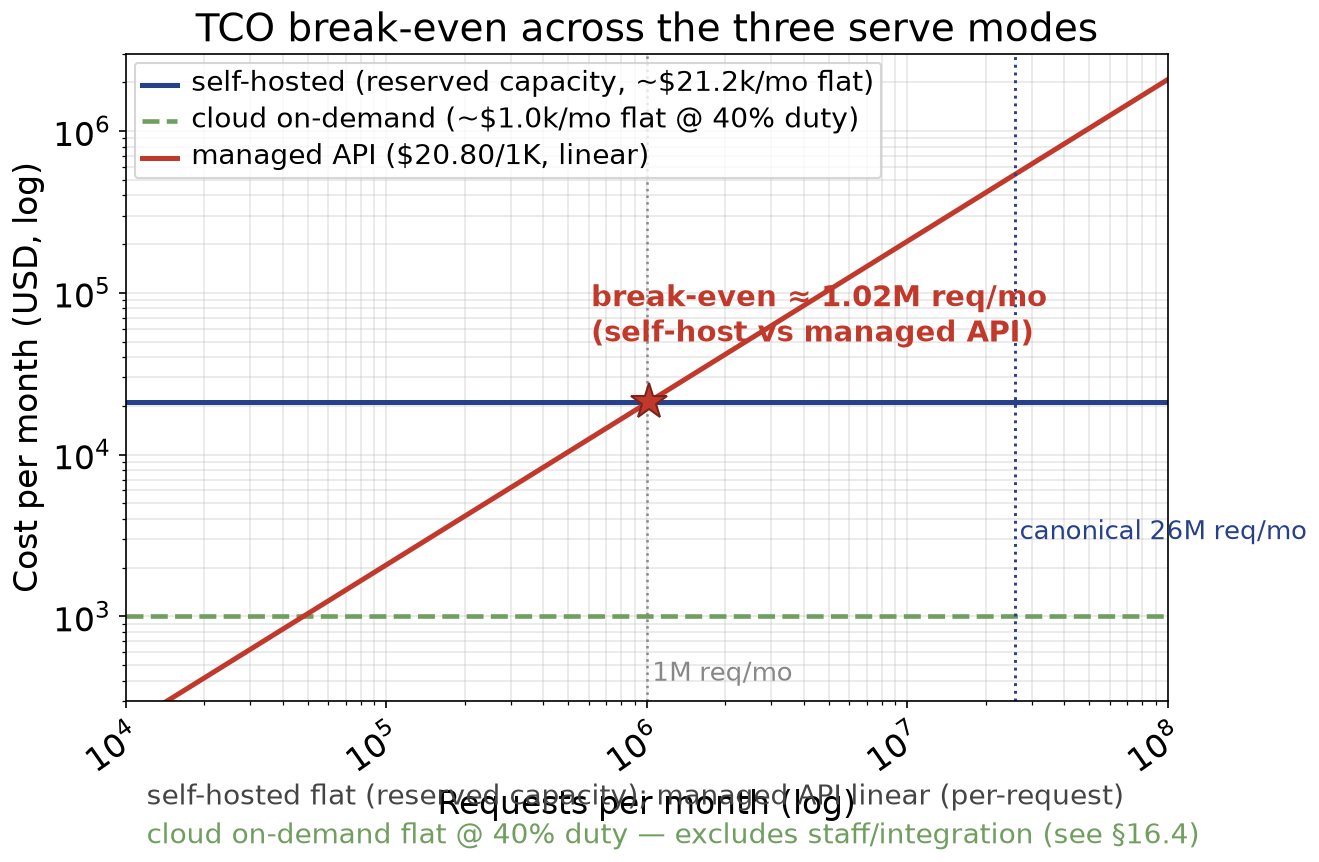
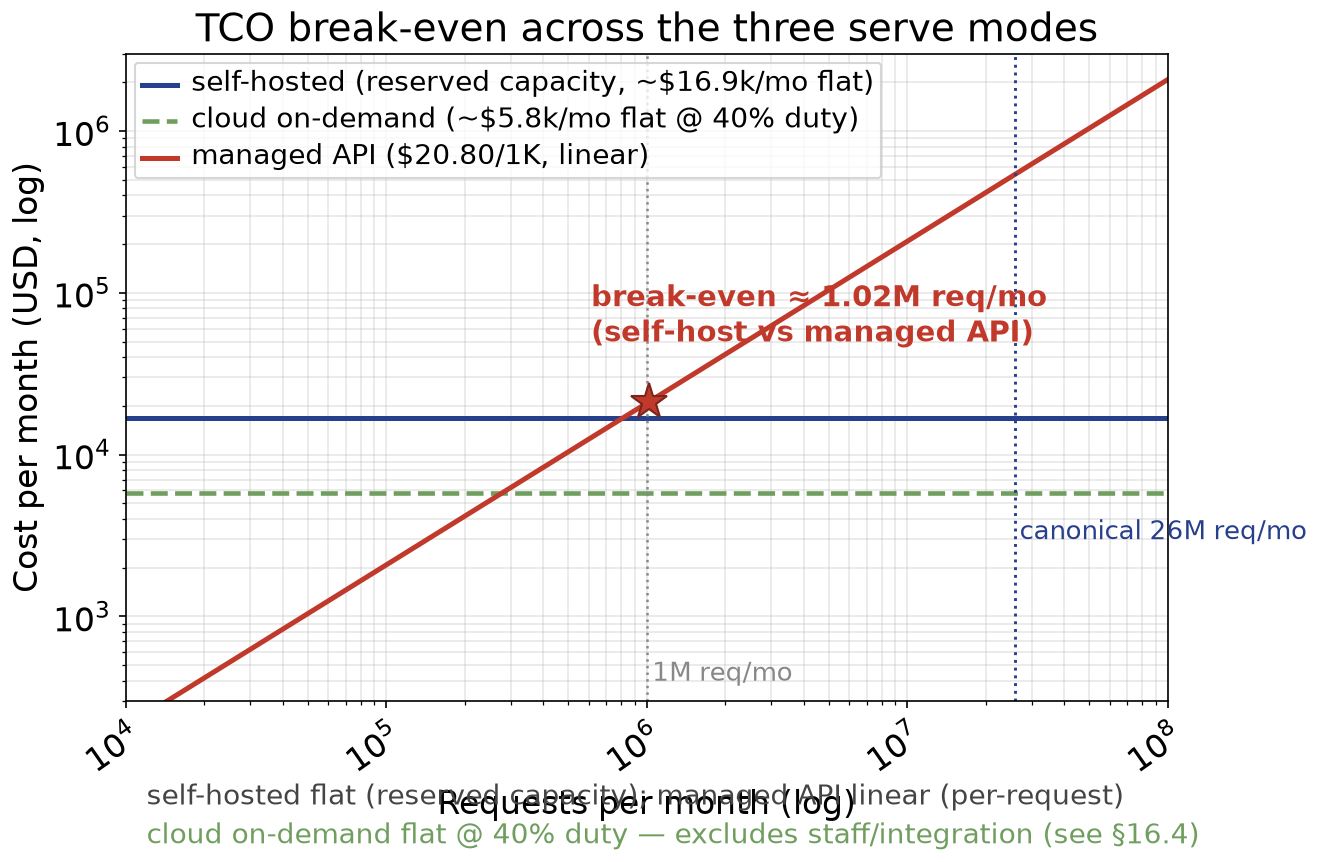
Fix QLoRA NF4 (4-bit ~0.5B/param), Ch12 7B+KV-quant 'recovers quality' (memory not quality), MHA terminology (full-MHA upper bound), all 'Chapter 27'->'Appendix A', Appendix A residue (qual-decomp dup, efficiency-led, spine dup), remove Verified:MM-DD instruction; Ch16 TCO power decomposition (5.6kW

diff --git a/render/tco_calc.py b/render/tco_calc.py
@@ -34,10 +34,16 @@ def main():
     # Mode 1 (self-hosted)
     ap.add_argument("--capex", type=float, default=350000, help="fully built 8\u00d7H100 server")
     ap.add_argument("--dep-years", type=float, default=5)
-    ap.add_argument("--power-kw", type=float, default=50)
     ap.add_argument("--usd-per-kwh", type=float, default=0.15)
     ap.add_argument("--staff-per-year", type=float, default=120000)
     ap.add_argument("--util", type=float, default=1.0, help="self-host on-time duty (1.0 = always on)")
+    # Auditable facility-power decomposition: GPU IT load + host/network, times PUE.
+    ap.add_argument("--gpu-count", type=int, default=8)
+    ap.add_argument("--gpu-watt", type=float, default=700, help="per-GPU TDP (W) -> GPU IT load")
+    ap.add_argument("--host-other-kw", type=float, default=2.2, help="host/network/other IT load (kW)")
+    ap.add_argument("--pue", type=float, default=1.3, help="facility power-usage-effectiveness multiplier")
+    ap.add_argument("--power-kw", type=float, default=None,
+                    help="explicit facility power (kW); if unset, derived as (GPU IT + host-other) x PUE")
 
     # Mode 2 (cloud on-demand)
     ap.add_argument("--cloud-usd-per-hr", type=float, default=20.0, help="8\u00d7H100 instance ($2.50/GPU-hr \u00d7 8)")
@@ -54,6 +60,12 @@ def main():
     # Mode 1
     capex_mon = a.capex / (a.dep_years * 12)
     hours_mon = 24 * a.days * a.util
+    if a.power_kw is None:
+        gpu_it_kw = (a.gpu_count * a.gpu_watt) / 1000.0
+        a.power_kw = (gpu_it_kw + a.host_other_kw) * a.pue
+        power_note = "GPU IT {:.1f} kW + host {:.1f} kW, x PUE {:.2f}".format(gpu_it_kw, a.host_other_kw, a.pue)
+    else:
+        power_note = "explicit"
     power_mon = a.power_kw * a.usd_per_kwh * hours_mon
     staff_mon = a.staff_per_year / 12
     mode1_total_mon = capex_mon + power_mon + staff_mon
@@ -74,7 +86,7 @@ def main():
     print()
     print("Mode 1 self-hosted (8\u00d7H100, util={:.0%})".format(a.util))
     print(f"  capex/mo   : {fmt_usd(capex_mon)}")
-    print(f"  power/mo   : {fmt_usd(power_mon)}  ({a.power_kw} kW @ ${a.usd_per_kwh}/kWh, {hours_mon:.0f} h)")
+    print(f"  power/mo   : {fmt_usd(power_mon)}  ({a.power_kw:.1f} kW facility @ ${a.usd_per_kwh}/kWh, {hours_mon:.0f} h; {power_note})")
     print(f"  staff/mo   : {fmt_usd(staff_mon)}")
     print(f"  total/mo   : {fmt_usd(mode1_total_mon)}")
     print(f"  cost/1K req: {fmt_usd(mode1_cost_1k)}")

diff --git a/render/fig_ch16_tco.py b/render/fig_ch16_tco.py
@@ -8,12 +8,12 @@ import numpy as np
 # cloud on-demand: low fixed (per-use, flat at a duty-cycle assumption)
 # managed API: linear per-request
 req = np.logspace(4, 8, 300)
-self_host = np.full_like(req, 21200.0)        # ~$21.2k/mo flat (reserved capacity)
+self_host = np.full_like(req, 16900.0)        # ~$16.9k/mo flat (reserved capacity)
 cloud_od  = np.full_like(req, 5800.0)          # ~$5.8k/mo flat (on-demand @ 40% duty, $20/hr node)
 managed   = 0.0208 * req                       # $20.80/1K -> linear
 
 fig, ax = plt.subplots(figsize=(9, 6))
-ax.loglog(req, self_host, '-', color='#27408b', lw=2.4, label='self-hosted (reserved capacity, ~$21.2k/mo flat)')
+ax.loglog(req, self_host, '-', color='#27408b', lw=2.4, label='self-hosted (reserved capacity, ~$16.9k/mo flat)')
 ax.loglog(req, cloud_od, '--', color='#6f9e5f', lw=2.2, label='cloud on-demand (~$5.8k/mo flat @ 40% duty)')
 ax.loglog(req, managed, '-', color='#c0392b', lw=2.4, label='managed API ($20.80/1K, linear)')
 

diff --git a/design/manuscript/chapter-27/chapter-27.md b/design/manuscript/chapter-27/chapter-27.md
@@ -2,9 +2,7 @@
 
 > **Why this appendix exists.** The body of this handbook works through durable mechanisms — tokens, memory floors, rooflines, parallelism, KV arithmetic — that do not change. But the industry moves, and the whole point of an architecture handbook is to stay current. In 2026 the four frontier open-weight MoE families — DeepSeek-V4, Kimi K3, Qwen3.8-Flash-Next, and GLM-5.3-Flash — all shipped within a short window. Reading them together is not a product tour; it is a single, coherent signal about where the mechanisms in this book are heading. Every mechanism below maps back to a chapter and an architectural decision.
 
-> **Snapshot date: 2026-08-30.** This appendix is a snapshot of the frontier as of that date, compiled from the first-party technical reports and model cards listed in §8. The models, their parameter counts, constants, and claims are vendor-reported and move quickly. It illustrates how to apply the framework to a changing frontier; it is **not** a current model leaderboard. An architect should re-check the primary sources before betting capacity on any specific number quoted here.
-
-> **Public-release verification.** The first-party sources in §8 — model cards, technical reports, and parameter counts — must be reopened against the current versions and this appendix stamped **Verified: 2026-MM-DD** on the day of release. Save this for the final proof, after all other edits are frozen; it is the one check that cannot be done early.
+> **Snapshot date: 2026-08-30.** This appendix is a snapshot of the frontier as of that date, compiled from the first-party technical reports and model cards listed in §8. The models, their parameter counts, constants, and claims are vendor-reported and move quickly. It illustrates how to apply the framework to a changing frontier; it is **not** a current model leaderboard. The sources in §8 should be re-opened against the current versions before any specific number is relied on for a real deployment.
 
 ## The Signal in One Paragraph
 
@@ -60,11 +58,11 @@ When we write "Four independent labs converged" or "MoE is arguably a larger arc
 
 ![Fig A.2 — The KV constant and FLOP/token are a moving target: hybrid attention cuts both at the mechanism. Canonical 70B dense full-MHA = 100%; DeepSeek-V4-Flash ≈ 7% KV / 10% FLOP, V4-Pro ≈ 10% / 27%, GLM-5.3-Flash ≈ 23% KV / ~33% attention-compute [DERIVED from 1P claims: arXiv 2606.19348; HF zai-org]](figures/fig-27-2704.png)
 
-*Same message as Fig 7.1's GQA line, taken to the frontier: the per-token KV and FLOP "constants" of Chapter 7/8 are not universal — they are LLaMA-style floors that hybrid attention re-architects down at the mechanism. Percentages are each model's gain over its own predecessor (e.g. V3.2→V4, GLM-5.x steps), shown against the canonical 70B dense full-MHA reference so the floors stay comparable. An architect who re-derives them per candidate model avoids both over- (sizing a 7% KV model as if it were 100%) and under-provisioning. Values are vendor-published [1P], not yet independently reprofiled on a serving stack (see §5).*
+*Same message as Fig 7.1's GQA line, taken to the frontier: the per-token KV and FLOP "constants" of Chapter 7/8 are not universal — they are the canonical full-MHA conservative upper-bound teaching model, which hybrid attention re-architects down at the mechanism. Percentages are each model's gain over its own predecessor (e.g. V3.2→V4, GLM-5.x steps), shown against the canonical 70B dense full-MHA reference so the floors stay comparable. An architect who re-derives them per candidate model avoids both over- (sizing a 7% KV model as if it were 100%) and under-provisioning. Values are vendor-published [1P], not yet independently reprofiled on a serving stack (see §5).*
 
 The book's canonical scenario is a 70B dense FP16, ~9.2K-token RAG workload on 8×H100. The 2026 frontier does not invalidate it — it *refines* the interpretation an architect should carry:
 
-- The **KV constant** (Ch7: ~2.5 MB/token FP16, ~1.3 MB 8-bit) is a LLaMA-style floor. Hybrid-attention models cut it 4–10× at the mechanism, so "context fits on N GPUs" must be re-derived per model, not looked up once. [1P]
+- The **KV constant** (Ch7: ~2.5 MB/token FP16, ~1.3 MB 8-bit) is the canonical full-MHA conservative upper-bound teaching model. Hybrid-attention models cut it 4–10× at the mechanism, so "context fits on N GPUs" must be re-derived per model, not looked up once. [1P]
 - The **roofline** (Ch8) still holds; what changed is where a frontier model's prefill/decode ride it. Vendor-reported FLOP/KV reductions are [1P] but not yet independently reprofiled — an architect should re-run Ch8's measurement on the candidate model before betting capacity. [1P] → (to be re-verified for this candidate)
 - The **MoE memory decision** (Ch10) is now dominated by active parameters + KV + expert-fabric comm, not total size. [1P]
 
@@ -72,7 +70,7 @@ None of this changes the book's *mechanisms*; it changes the *constants* an arch
 
 ## 6. Where 2026 Capability Actually Comes From (beyond Architecture)
 
-A recurring error — easy to fall into after reading four new model cards — is to attribute frontier gains to the attention mechanism splashed across the front page. The industry is converging not just on *architectures* (MoE + efficient attention + very long context) but on a *multi-layered recipe* in which architecture is one ingredient, and arguably not the dominant one. A qualitative decomposition (a qualitative decomposition):
+A recurring error — easy to fall into after reading four new model cards — is to attribute frontier gains to the attention mechanism splashed across the front page. The industry is converging not just on *architectures* (MoE + efficient attention + very long context) but on a *multi-layered recipe* in which architecture is one ingredient, and arguably not the dominant one. A qualitative decomposition of the recipe:
 
 | Lever | Primary effect |
 |---|---|
@@ -101,7 +99,7 @@ This is why architecture alone never tells an architect how good a frontier mode
 
 ![Fig A.3 — The layered evolution of frontier systems](figures/fig-27-2703.png)
 
-From a single model to a whole system. The earlier stages (Transformer, Efficient, MoE) are largelyefficiency-led* — they make inference affordable and raise capacity-per-FLOP. The later stages (Reasoning, Test-Time Compute, Tool-Using, Agent, Agent System, Agent Fleet) are *capability-led* — they raise effective intelligence. This chain is the spine of the handbook: tokens (Ch1–9), parallelism (Ch10), serving (Ch11–16), fleet & agents (Ch17–26). [INTERPRETATION — synthesis of the chapters' arithmetic, not a single measurement]*
+From a single model to a whole system. The earlier stages (Transformer, Efficient, MoE) are *efficiency-led* — they make inference affordable and raise capacity-per-FLOP. The later stages (Reasoning, Test-Time Compute, Tool-Using, Agent, Agent System, Agent Fleet) are *capability-led* — they raise effective intelligence. [INTERPRETATION — synthesis of the chapters' arithmetic, not a single measurement]*
 
 This chain is the spine of this handbook — from a single model's tokens (Ch1–9) to parallelism (Ch10), serving (Ch11–16), and finally the fleet of specialized models and agents (Ch17–26). It also explains why two models with broadly similar base architectures can have very different practical intelligence (post-training/reasoning), and why an agent runtime can lift real-world performance without changing model weights at all: **model intelligence ≠ system intelligence anymore.**
 

diff --git a/design/manuscript/chapter-03/chapter-03.md b/design/manuscript/chapter-03/chapter-03.md
@@ -112,7 +112,7 @@ Knowing whether a model is dense or MoE, and whether the quoted parameter count 
 
 ### The 2026 baseline shift: same framework, new constants
 
-**The 2026 trend signal (forward-looking).** By August 2026 the four frontier open-weight families converge on one direction, and it is not more of the same dense scaling: extreme MoE sparsity (single-digit active-parameter fractions — Qwen 6 B of 125 B, Kimi K3 104 B of 2.8 T) coupled with **hybrid attention** (compressed/sparse/linear hybrids such as Gated DeltaNet + sparse attention) has become the standard way to make long-context inference affordable. Chapter 27 (Appendix A) documents these at full depth with first-party provenance; what matters here, in the model-understanding chapter, is that this is not a competing mechanism but the *same* dense-vs-MoE, total-vs-active, KV-vs-compute machinery this chapter just taught — with new constants. We hold that view explicitly as the **forward-looking direction** the architect should size toward, and flag it below as continuing future work (the frontier moves; this handbook is a living document, and Appendix A is where the moving part lives).
+**The 2026 trend signal (forward-looking).** By August 2026 the four frontier open-weight families converge on one direction, and it is not more of the same dense scaling: extreme MoE sparsity (single-digit active-parameter fractions — Qwen 6 B of 125 B, Kimi K3 104 B of 2.8 T) coupled with **hybrid attention** (compressed/sparse/linear hybrids such as Gated DeltaNet + sparse attention) has become the standard way to make long-context inference affordable. Appendix A documents these at full depth with first-party provenance; what matters here, in the model-understanding chapter, is that this is not a competing mechanism but the *same* dense-vs-MoE, total-vs-active, KV-vs-compute machinery this chapter just taught — with new constants. We hold that view explicitly as the **forward-looking direction** the architect should size toward, and flag it below as continuing future work (the frontier moves; this handbook is a living document, and Appendix A is where the moving part lives).
 
 **Why the trend signal should not be read as "dense is dead".** The convergence of the four *frontier* families on extreme MoE sparsity describes the top of the market — the ~100B-and-up tier that anchor ~2.8T-parameter fleets. It is not a claim that dense models have disappeared. On the contrary, the smaller, denser tier is alive and actively shipping in 2026 for exactly the constrained-deployment reasons this chapter teaches: **Qwen3.8-27B** ([1P: HF Qwen/Qwen3.8-27B]) is a dense 27.8B model whose 4-bit weights fit on a single 24 GB consumer GPU, and **Muse Glimmer 30B** ([1P: Meta via vLLM-Recipes]) is a dense 29.6B local-agentic model that runs in ~18 GB. These exist because the dense-vs-MoE trade is itself a *deployment* decision, not a date: MoE buys active-parameter efficiency at the cost of total-parameter memory and routing complexity — worthwhile when you serve many requests from a large pool of resident weights, but hard to justify when your whole budget is one consumer GPU whose total weights already overrun. That is precisely why this book keeps its canonical on the dense tier: the canonical must serve the architect whose *whole fleet* is a handful of boxes, not only the one sizing a 2.8T datacenter model. The framework does not change between tiers — total vs active, KV per-token, and residency budgeting apply identically to a 27B dense laptop model and a 125B/6B MoE fleet model.
 
@@ -124,9 +124,9 @@ Knowing whether a model is dense or MoE, and whether the quoted parameter count 
 - **KV cache** (Ch. 7/8): the canonical `2 × layers × hidden × bytes` KV formula is the full-MHA bound. Qwen's hybrid attention attacks the KV constant itself at the mechanism level — GDN keeps a fixed-size recurrent state (context cost no longer grows linearly per token across those layers) and QSA attends sparsely at micro-block granularity — so per-token KV no longer follows the dense formula. The framework question ("does it fit?") is unchanged; the *function* you plug in for KV is not the dense one.
 - **Compute** (Ch. 8): active-parameter FLOPs drop to ~2 ×6 B per token, but the QSA/GDN layers ride different roofline points than a dense 70B prefill/decode split, so the throttled-resource conclusion must be re-derived per model (Ch. 8's measurement discipline, not a one-time number).
 
-**The architect's move is unchanged.** For the canonical dense model this book sizes memory, compute, and fleet with one clean constant set. For a 2026 MoE/hybrid model the architect does the *same* decision loop — read the model card, get total vs active, get the KV scheme's per-token function, size residency and roofline, then decide parallelism (Ch. 10) and serving (Ch. 11). Only the constants differ; the framework does not. Chapter 27 walks the four frontier models through exactly this re-derivation and flags which vendor numbers still carry a verify-on-own-hardware caveat.
+**The architect's move is unchanged.** For the canonical dense model this book sizes memory, compute, and fleet with one clean constant set. For a 2026 MoE/hybrid model the architect does the *same* decision loop — read the model card, get total vs active, get the KV scheme's per-token function, size residency and roofline, then decide parallelism (Ch. 10) and serving (Ch. 11). Only the constants differ; the framework does not. Appendix A walks the four frontier models through exactly this re-derivation and flags which vendor numbers still carry a verify-on-own-hardware caveat.
 
-> **Recorded as future work.** This forward-looking view is intentionally a *pointer*, not the full treatment — the complete, current analysis of the 2026 frontier lives in Chapter 27 (Appendix A). Because the frontier moves quickly and every vendor figure in it carries a verify-on-own-hardware caveat, we treat the trend as a living section to be updated against new model cards, rather than a set of frozen gospel numbers (per the handbook's "living document" framing, book-architecture.md §10). An architect should re-check Appendix A before any capacity decision — the constants, not the framework, are what change.
+> **Recorded as future work.** This forward-looking view is intentionally a *pointer*, not the full treatment — the complete, current analysis of the 2026 frontier lives in Appendix A. Because the frontier moves quickly and every vendor figure in it carries a verify-on-own-hardware caveat, we treat the trend as a living section to be updated against new model cards, rather than a set of frozen gospel numbers (per the handbook's "living document" framing, book-architecture.md §10). An architect should re-check Appendix A before any capacity decision — the constants, not the framework, are what change.
 
 ## 7. What We Still Don't Know
 

diff --git a/design/manuscript/chapter-16/chapter-16.md b/design/manuscript/chapter-16/chapter-16.md
@@ -37,9 +37,9 @@ We price the canonical 70B enterprise-Q&A workload at the canonical traffic (~10
 **Mode 1 — self-hosted on owned cards (8×H100).**
 
 - Capex: assume ~$350K for a fully built 8×H100 server (cards, host, NVSwitch, networking, rack, cooling), amortized over 5 years → ~$70K/year, ~$5,800/month. [2° FACT, illustrative]
-- Opex: power + cooling for 8×H100 at ~50 kW, ~$0.15/kWh, always on → ~$65K/year; staff/engineering alloc ~$120K/year; total opex ~$185K/year. [2° DERIVED, illustrative]
-- Monthly total ≈ $5,800 (capex) + $15,400 (opex) ≈ **$21,200/month**.
-- Per request at ~10 rps average = ~864,000 requests/day ≈ 26M/month. **Cost ≈ $21,200 / 26M ≈ $0.00082/request ≈ $0.82 per 1,000 requests.** [2° DERIVED] *(worked example, not reference)*
+- Opex (power + staff): power decomposed — 8 H100 GPUs at ~700 W TDP ≈ 5.6 kW of GPU IT load, plus ~2.2 kW for the host/network/other IT load → ~7.8 kW total IT; at a facility PUE (power-usage-effectiveness) of ~1.3 that is ~10.1 kW at the wall. At ~$0.15/kWh, always on, that is ~$1.1K/month. Staff/engineering alloc ~$10K/month. Total opex ≈ ~$11.1K/month. [2° DERIVED, illustrative]
+- Monthly total ≈ $5.8K (capex) + $11.1K (opex) ≈ **$16.9K/month**.
+- Per request at ~10 rps average = ~864,000 requests/day ≈ 26M/month. **Cost ≈ $16.9K / 26M ≈ $0.00065/request ≈ $0.65 per 1,000 requests.** [2° DERIVED] *(worked example, not reference)*
 
 **Mode 2 — cloud GPU instances (rent, shut down when idle).**
 
@@ -61,7 +61,7 @@ $$
 [2° FACT, illustrative]
 - At the canonical 25.9M requests/month: ~$539,000/month — an order of magnitude above self-host. [2° DERIVED]
 
-**Reading the result.** Self-hosted (~$0.82/1K reqs) beats the API (~$20.8/1K reqs) by ~25× on pure token cost at this volume — but only because we assume steady near-canonical utilization plus in-house staff we are not separately billing. Cloud-on-demand (~$0.22/1K) now broadly ties or slightly exceeds self-host per request at this duty; it only wins if duty cycle is much lower (~20%) or we ignore staff/integration. The honest TCO answer for a business-critical, always-on service at canonical volume is **self-hosted cards**, with the caveat that the staff term is the real swing factor. [2° DERIVED]
+**Reading the result.** Self-hosted (~$0.65/1K reqs) beats the API (~$20.8/1K reqs) by ~32× on pure token cost at this volume — but only because we assume steady near-canonical utilization plus in-house staff we are not separately billing. Cloud-on-demand (~$0.22/1K) is roughly a third of self-host per request at this duty — but only if the duty cycle is ~40% and we ignore staff/integration. The honest TCO answer for a business-critical, always-on service at canonical volume is **self-hosted cards**, with the caveat that the staff term is the real swing factor. [2° DERIVED]
 
 **Parametric sensitivity is the durable form.** All the fixed inputs above — GPU price, electricity, staffing, capacity, API price — are [ILLUSTRATIVE] scenario values; the *structure* of the model is what generalizes. The architect can see the decision flip with utilization and volume: if effective utilization is low (~20%, e.g. a demo or dev workload), self-hosted cards sit idle while depreciating, and managed on-demand wins; near the crossover (~50–60% utilization at canonical volume) the two are close and the decision hinges on the staff/risk terms; only at sustained high utilization (~80%+) does self-hosted clearly win on cost-per-request. Rather than memorize one answer, the durable tool is a small parametric model — exact same arithmetic with GPU $/hr, $/kWh, staffing, and API price as inputs — which the architect re-runs with the customer's real numbers (Chapter 23). This is what makes TCO a decision *framework*, not a single verdict. A runnable, parameterised version of exactly this model ships with the book as `render/tco_calc.py` (defaults reproduce these numbers; override GPU $/hr, $/kWh, staffing, and API price as flags).
 
@@ -69,7 +69,7 @@ $$
 
 | Mode | Capex | Opex/month | Cost/1K req | $/month @26M req | When it wins |
 |---|---|---|---|---|---|
-| Self-hosted 8×H100 | ~$350K | ~$21.2K | ~$0.82 | ~$21K | steady high utilization, staff available |
+| Self-hosted 8×H100 | ~$350K | ~$16.9K | ~$0.65 | ~$16.9K | steady high utilization, staff available |
 | Cloud on-demand | $0 | ~$5.8K (40% duty) | ~$0.22 | ~$5.8K+staff | low duty cycle, bursty, no staff for ops |
 | Managed API | $0 | usage | ~$21 | ~$546K | tiny volume, fastest time-to-value |
 

diff --git a/design/manuscript/chapter-12/chapter-12.md b/design/manuscript/chapter-12/chapter-12.md
@@ -19,7 +19,7 @@ All 70B weights and the full 24 GB KV cache reside on the 8-GPU host. Prefix cac
 We keep the full 70B model in both pools and split by *phase* — which is what prefill/decode (P/D) disaggregation actually means (Chapter 11): a compute-bound prefill pool and a bandwidth-bound decode pool, each holding the complete 140 GB weights plus the in-flight KV, with the KV hidden-state handed between them (Splitwise / DistServe / Mooncake). Each pool therefore needs its own 8×H100 host (residency ~164 GB — weights plus one request's KV — comfortably under 640 GB). The win is that prefill and decode no longer fight over the same host's resources: the prefill pool runs FLOPS-saturated on the 9.2K input, the decode pool runs bandwidth-saturated on the 300 output tokens, and KV crosses between them. The cost is a second host plus the KV-transfer fabric and orchestration, so this pays only once the workload actually outgrows a single host (Chapter 11's “when to disaggregate”). Economics: two hosts and added fabric; it is the right architecture at scale, not for the single-host canonical case.
 
 **Candidate (c): KV-quantized smaller host.**  
-We downgrade to a 7B-class model (7B × 2 bytes = 14 GB weights) with KV-cache quantized to 4-bit, yielding a KV footprint of ~6 GB for 9.2K context. Total residency: 14 GB + 6 GB = 20 GB, which fits on a single H100 (80 GB) with 60 GB of headroom for overhead. The trade-off is a significant quality drop: the 7B model cannot achieve the same answer quality on complex enterprise Q&A as the 70B model, even with retrieval augmentation. To compensate, we apply KV-quantization at 4-bit, which recovers most of the lost quality relative to unquantized KV, but the model's intrinsic capacity remains the binding constraint. Throughput on a single H100 is far higher than on the 70B — a 7B prefill costs only ~14 GFLOP/token, so one card sustains tens of thousands of prefill tokens/s (vs ~2,471 for the 70B node, Chapter 8) — yet even that cannot change the verdict: at peak 40 rps the workload needs ~368K input tokens/s, so satisfying peak prefill still needs more than a handful of cards, and the 7B's quality ceiling on complex enterprise Q&A remains the binding constraint regardless of throughput. This candidate illustrates the extreme end of the KV-quantization space: the memory footprint is trivially small, but neither quality nor throughput makes it competitive for this workload.
+We downgrade to a 7B-class model (7B × 2 bytes = 14 GB weights) with KV-cache quantized to 4-bit, yielding a KV footprint of ~6 GB for 9.2K context. Total residency: 14 GB + 6 GB = 20 GB, which fits on a single H100 (80 GB) with 60 GB of headroom for overhead. The trade-off is a significant quality drop: the 7B model cannot achieve the same answer quality on complex enterprise Q&A as the 70B model, even with retrieval augmentation — a capability loss that no memory optimization can restore. The 4-bit KV cache further reduces memory pressure, but it is a *memory* optimization, not a quality one; it does not compensate for the capability lost by moving from 70B to 7B, and aggressive KV quantization can add its own quality penalty that must be validated on the target workload. The model's intrinsic capacity remains the binding constraint. Throughput on a single H100 is far higher than on the 70B — a 7B prefill costs only ~14 GFLOP/token, so one card sustains tens of thousands of prefill tokens/s (vs ~2,471 for the 70B node, Chapter 8) — yet even that cannot change the verdict: at peak 40 rps the workload needs ~368K input tokens/s, so satisfying peak prefill still needs more than a handful of cards, and the 7B's quality ceiling on complex enterprise Q&A remains the binding constraint regardless of throughput. This candidate illustrates the extreme end of the KV-quantization space: the memory footprint is trivially small, but neither quality nor throughput makes it competitive for this workload.
 
 *Memory/residency arithmetic summary.* The canonical weights (140 GB) + KV (24 GB FP16) = 164 GB fits 640 GB (8×H100). Candidate (a) uses the full host with room to spare. Candidate (b) keeps the full model in each pool, so each 8×H100 host also holds ~164 GB. Candidate (c) fits 20 GB on one H100, but its quality ceiling rules it out for the quality target.
 

diff --git a/design/manuscript/chapter-07/chapter-07.md b/design/manuscript/chapter-07/chapter-07.md
@@ -72,7 +72,7 @@ The visual proof of the 8× saving. Full MHA caches a K,V per query head (64/tok
 | inference (weights + KV, 9.2K input) | weights + KV cache | FP16: 2 B; KV adds ~2.5 MB/token | ~165 GB (9.2K) | yes |
 | fine-tuning (weights + gradients + optimizer) | weights + gradients + optimizer states | Adam: ~16 B/param (m + v + ΔW) | ~1,260 GB | no |
 | fine-tuning (weights + gradients, FP16) | weights + gradients FP16 | 4 B/param (weights FP16 2 B + gradients FP16 2 B) | ~280 GB | yes |
-| fine-tuning (QLoRA, 4-bit base + LoRA) | quantized base + LoRA adapters | NF4: 4 B base; LoRA ~5 M params | ~50–70 GB | yes |
+| fine-tuning (QLoRA, 4-bit base + LoRA) | quantized base + LoRA adapters | NF4: nominal 4-bit (~0.5 B/param) + quantization metadata; adds adapters/gradients/optimizer/activations | ~50–70 GB | yes |
 | inference with FP8 KV | weights FP16 + KV FP8 | KV: ~54% of BF16 | ~12.9 GB KV @ 9.2K | yes, comfortably |
 
 *Inference residency = weights + KV cache; the KV footprint scales with context length. Fine-tuning residency adds optimizer states (Adam m, v, and updates), which for 70B at ~16 bytes/param exceeds 1 TB — roughly 2× the 640 GB of 8×H100. This contrast is the architect's central takeaway: inference is memory-limited by weights + KV, while fine-tuning is memory-limited by weights + gradients + optimizer, a substantially higher floor.*
